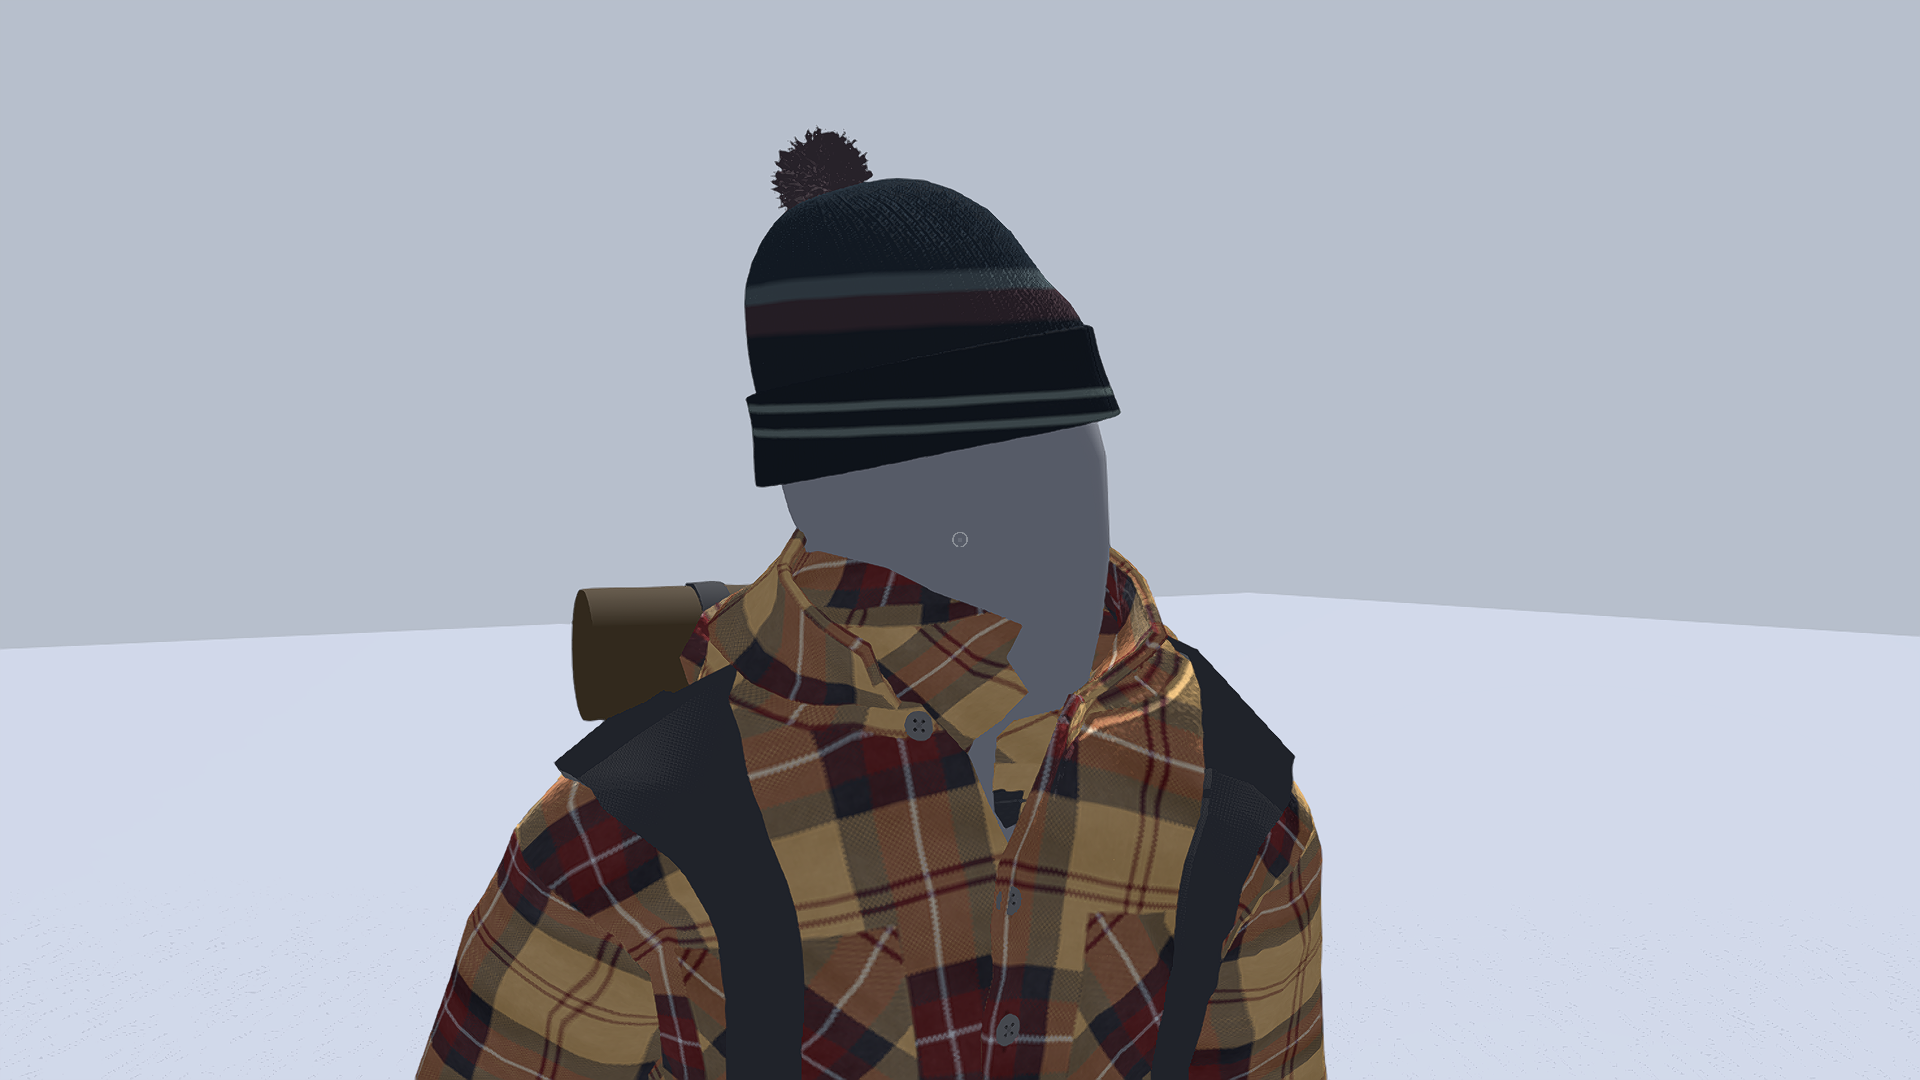
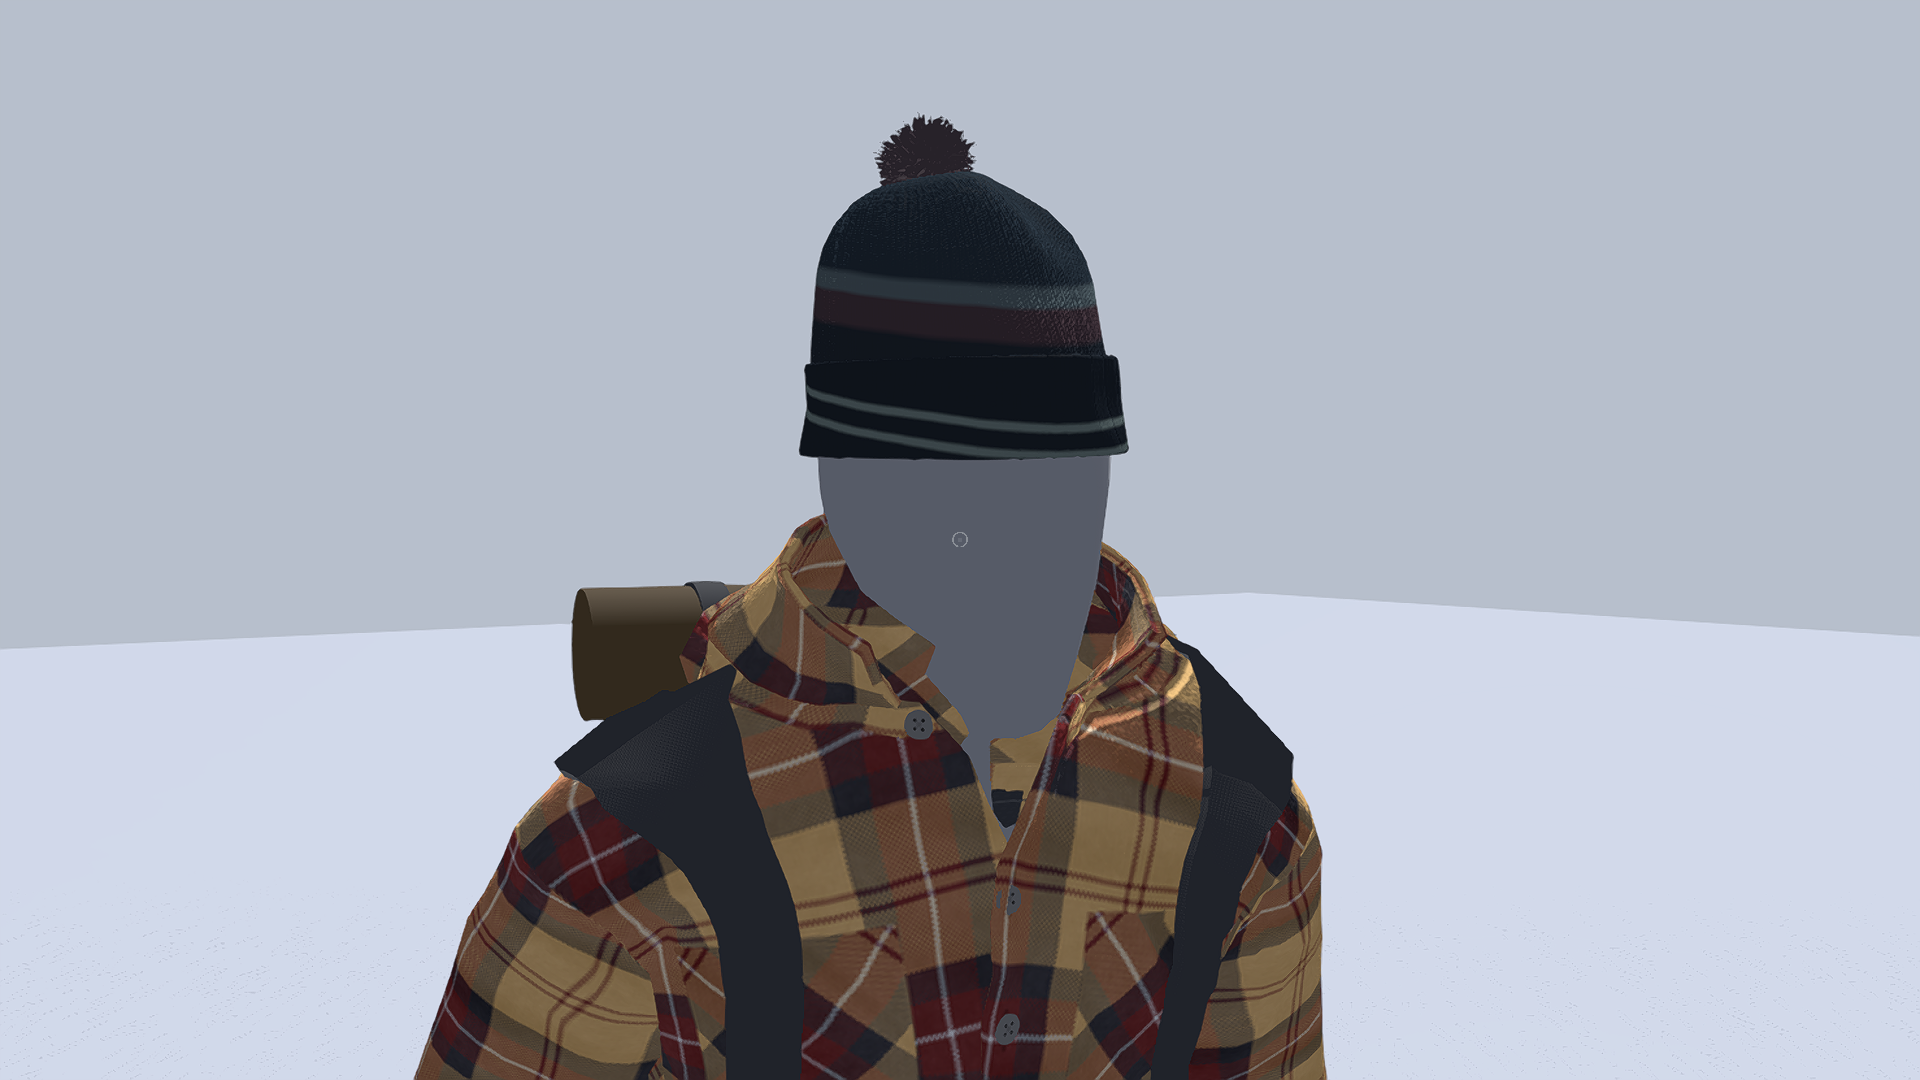
Capture Henry's knit hat with neutral head pose

Changed region(s): [[0.375, 0.0917, 0.5938, 0.5194], [0.4375, 0.4889, 0.625, 0.7028], [0.375, 0.5194, 0.4062, 0.5806]]

diff --git a/assets/characters/henry/knit_hat/README.md b/assets/characters/henry/knit_hat/README.md
@@ -9,3 +9,5 @@ blender -b --python tools/blender/build_knit_hat.py -- assets/characters/henry/k
 ```
 
 The player visual attaches the GLB to the Head bone and applies Hoarbound's character NPR shader. Equipment's existing `knit_hat` item in `head_outer` controls whether it is shown.
+
+For fitting review, Henry's face points toward Blender −Y. The Godot outfit capture keeps HeadLook neutral so a camera turn does not masquerade as a tilted hat or texture.
